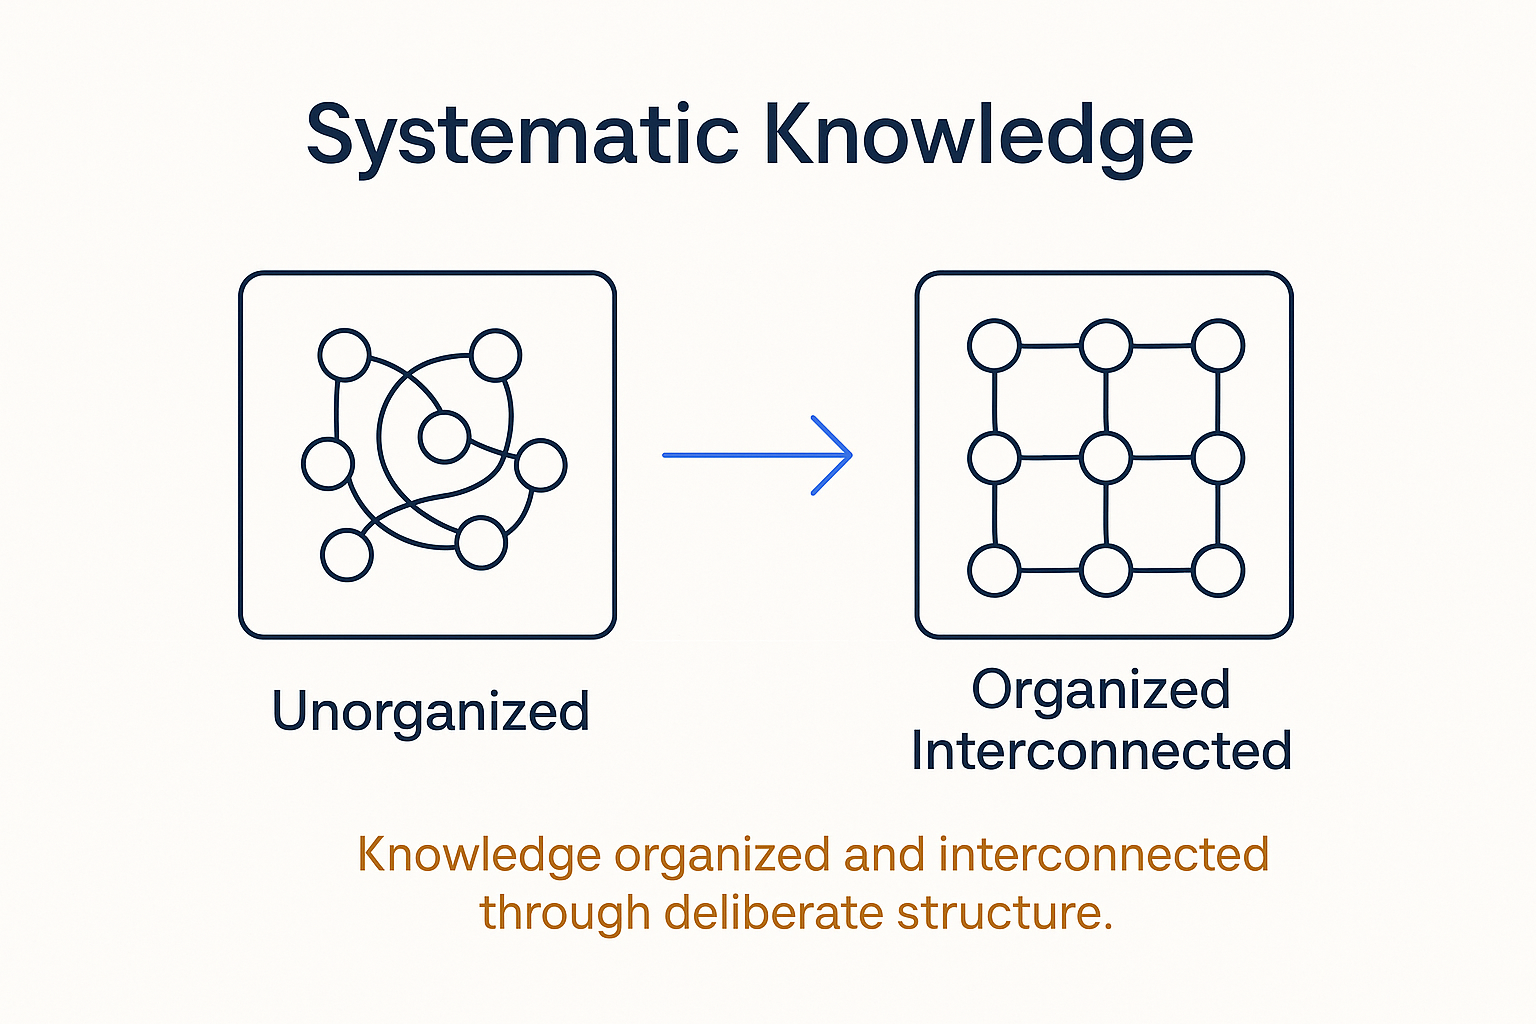
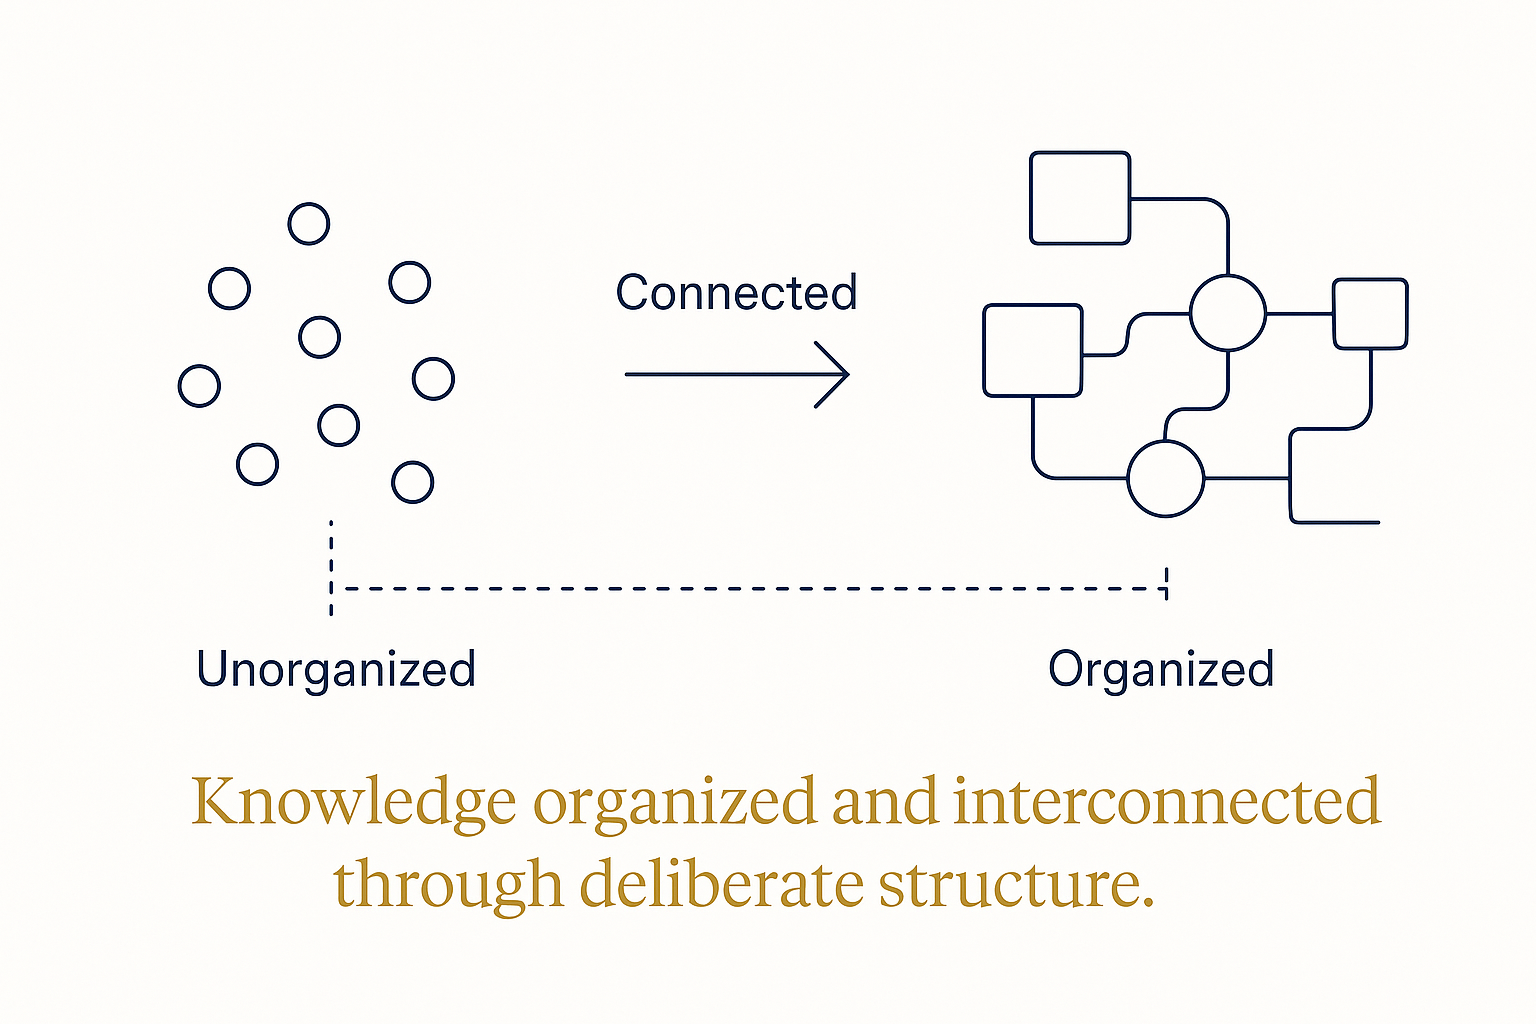
@ concepts: ADR-086 pipeline hardened (no-title rule) + wire 2 titleless heroes
Image-automation refinements after the first pilots came back with a title
baked in (duplicating the page <h1>):
- generate_images.py: sharper LAST-position "CRITICAL - NO TITLE" instruction
  (the most-ignored rule, so it goes last + emphatic) + a house-richness block
  (editorial thin-line style, not bare two-box diagrams). Payoff line + labels
  stay; the concept TITLE does not.
- Verified on the-context-graph regen: title gone, diagram + labels + gold
  payoff kept, richer composition. Best-practice option A (title in HTML, not
  pixels), Jaco-approved.
- Wired the-context-graph + systematic-knowledge heroes. 48 concept heroes.

Known follow-up: the payoff line in-image still duplicates the figcaption
(smaller, separate fix). Batch of ~45 title-heroes to regenerate later.

@

diff --git a/concepts/the-context-graph.html b/concepts/the-context-graph.html
@@ -9,7 +9,7 @@
 <meta property="og:description" content="The knowledge graph knows what exists; the context graph is what this decision needs — scoped at runtime, small enough to reason across, not search through." />
 <meta property="og:type" content="article" />
 <meta property="og:url" content="https://structurebeatsmagic.com/concepts/the-context-graph.html" />
-<meta property="og:image" content="https://structurebeatsmagic.com/assets/sbm-og-card.svg" />
+<meta property="og:image" content="https://structurebeatsmagic.com/assets/the-context-graph-hero.png" />
 <meta name="twitter:card" content="summary_large_image" />
 <link rel="canonical" href="https://structurebeatsmagic.com/concepts/the-context-graph.html" />
 <link rel="icon" type="image/svg+xml" href="../assets/favicon.svg"/>
@@ -91,7 +91,7 @@
 <section>
   <div class="wrap c-detail">
     <p class="c-tagline">The knowledge graph knows what exists; the context graph is what this decision needs — scoped at runtime, small enough to reason across, not search through.</p>
-    
+    <figure class="c-hero"><img src="../assets/the-context-graph-hero.png" alt="The Context Graph" loading="eager"/><figcaption>The knowledge graph knows what exists — the whole dense web. The context graph is the small subgraph this decision actually needs, scoped at runtime: small enough to reason across, not search through.</figcaption></figure>
     <div class="c-body">
 <p>The missing word between having structure and using it. A knowledge graph knows <em>what exists</em>: thousands of nodes, every entity and relationship, stable, domain-scoped, the whole memory. That completeness is its job — and its trap. A complete graph is a haystack: you built precise structure, then forced probabilistic retrieval across all of it, making the agent <em>search</em> what you so carefully <em>organized</em>. Precision at design time, guesswork at runtime.</p>
 <p>The context graph is the answer: not another store, but a <strong>cut</strong>. For each decision, scope the graph down to the subgraph that decision actually needs — the flight, the fare rule, the weather, the one policy that applies — assembled at runtime, discarded after. The design target is a phrase worth keeping: <em>small enough to reason across, not search through</em>. An agent handed a scoped subgraph reads all of it and reasons; an agent handed the whole graph samples it and hopes.</p>